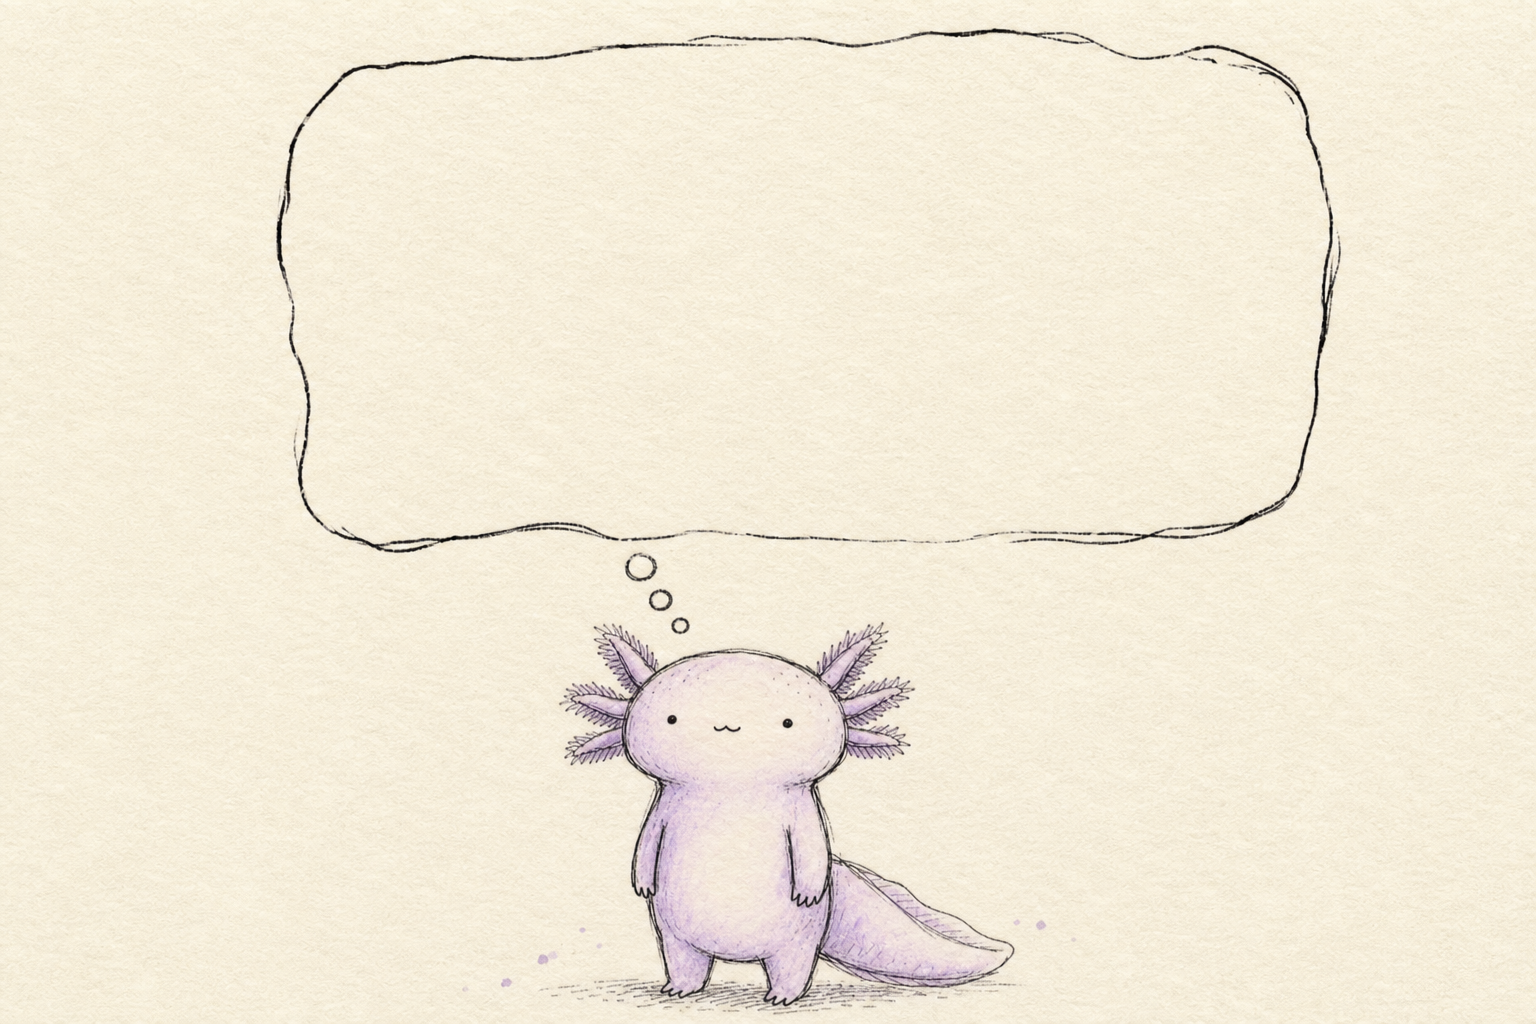
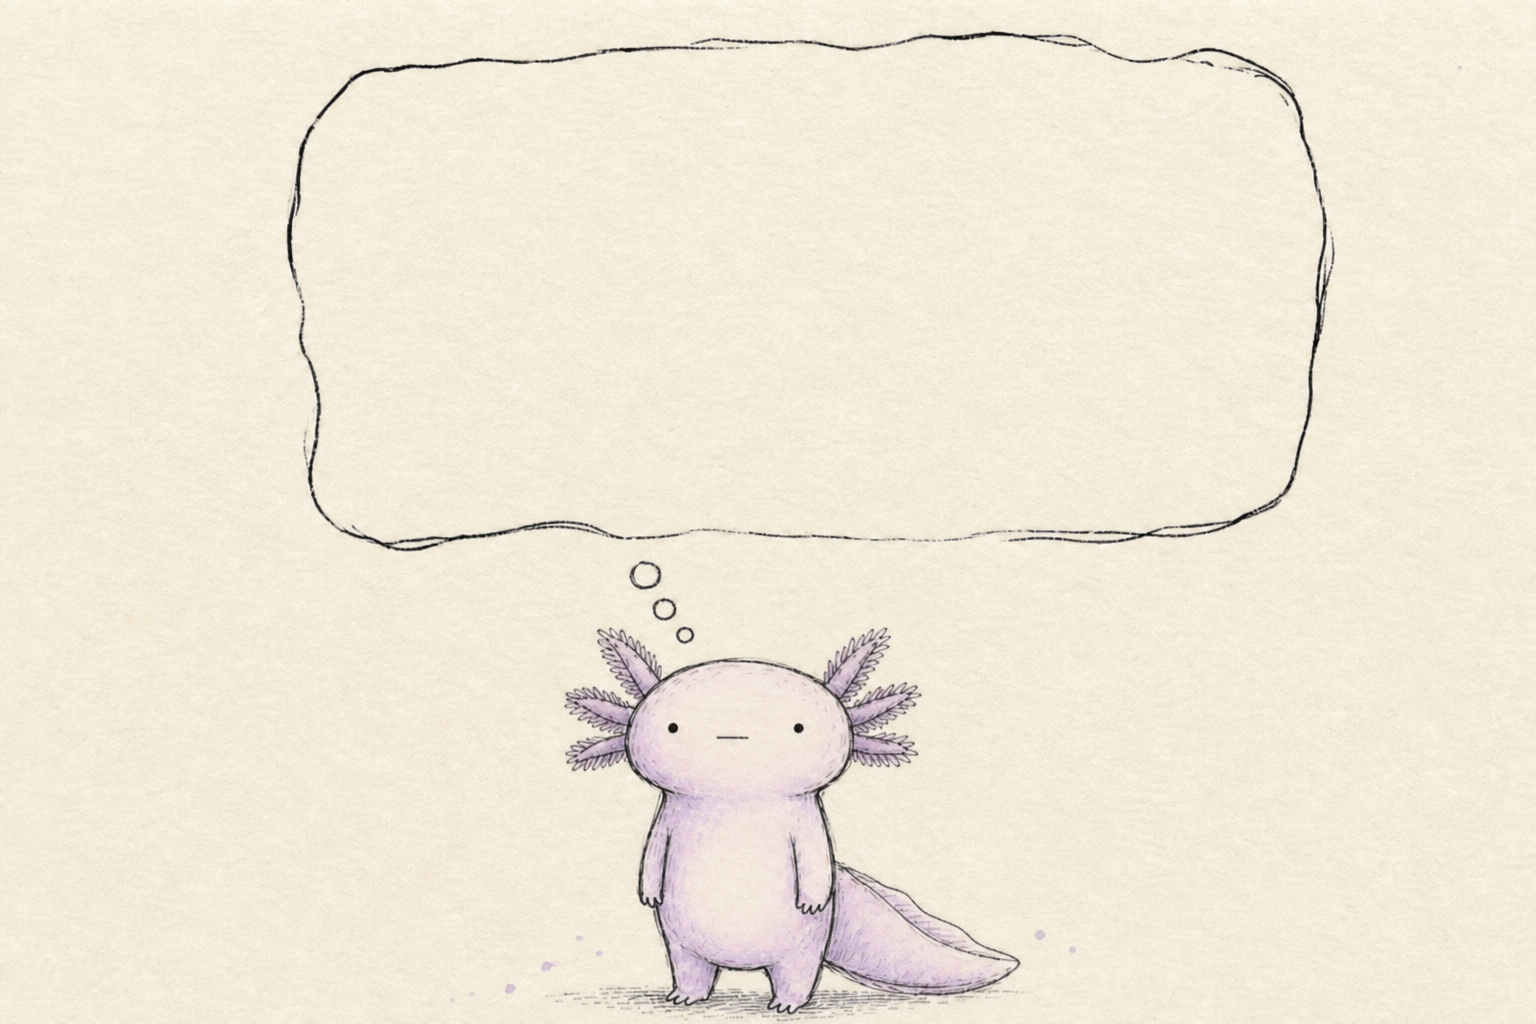
Lock Axo eyes and mouth to brand face reference
Tiny dots far apart + flat horizontal line mouth on all posts.
Update SVGs, layout docs, and regenerate canonical/day1/day2 PNGs.

diff --git a/docs/axo-face-locked-zh-TW.md b/docs/axo-face-locked-zh-TW.md
@@ -1,0 +1,49 @@
+# Axo 眼與嘴 — 鎖定規格（不可更改）
+
+**鎖定來源：** 品牌方提供之臉部參考圖（發呆／空白表情）  
+**狀態：** 永久鎖定 · 所有貼文、所有姿勢皆用同一張臉
+
+---
+
+## 鎖定外觀
+
+| 部位 | 規格 | 禁止 |
+|------|------|------|
+| **眼睛** | 兩顆**極小**實心黑點；**距離偏寬**（大臉兩側，呆視前方） | 大眼白、睫毛、瞇眼、斜眼 |
+| **嘴巴** | **一條短直橫線** `_`（水平、居中、無弧度） | `w` 嘴、張口、橢圓嘴、牙齒 |
+| **表情** | 死板、空白、發呆、無情緒 | 笑、哭、驚訝 o 嘴（除非品牌方書面解禁） |
+
+### SVG 數值（400×640 模板內 Axo 頭部）
+
+| 元素 | 值 |
+|------|-----|
+| 左眼 | `cx="170" cy="164" r="2.5"` |
+| 右眼 | `cx="230" cy="164" r="2.5"` |
+| 嘴 | `M 192 200 L 208 200` stroke 2px |
+
+> 換姿勢時**只移動身體**，眼嘴相對頭部位置與形狀不變。
+
+---
+
+## 與構圖模板關係
+
+- **版型：** 永遠「空白思考雲 + 下方小 Axo」（見 layout template）  
+- **臉：** 永遠本文件眼嘴 — **Post 1 介紹、Post 2 發呆、Day 2 麵碗…全部相同**
+
+---
+
+## AI / 設計師
+
+1. 以品牌方臉部參考圖為 **face reference**（勿改用 w 嘴版）  
+2. 新姿勢：reference 完整模板 + **只改身體手腳道具**  
+3. 完稿檢查：並排對照參考圖，眼距、點大小、橫線嘴須一致  
+
+**參考檔建議路徑：** `assets/axo/pen/reference/axo-face-locked.png`（請將品牌方原圖存於此）
+
+---
+
+## Midjourney 臉部片段（貼進主提示詞）
+
+```
+very tiny solid black dot eyes far apart on wide face, one short perfectly horizontal flat line mouth, blank deadpan empty expression, no smile
+```

diff --git a/docs/axo-style-v3-pen-zh-TW.md b/docs/axo-style-v3-pen-zh-TW.md
@@ -19,9 +19,8 @@
 | **畫紙** | 暖米色 `#F2EBD9`，可見紙紋、輕微纖維質感 |
 | **線條** | 墨色 `#2A2420`，**略歪、略抖**，線寬約 2.5–3px，有輕重 |
 | **上色** | 淡薰衣草**水彩暈染** `#E8D8E8`（opacity ~55%），不是實心向量填色 |
-| **眼睛** | 兩顆超小點眼；**只能比 canonical 更小，不能換畫風**（見色彩一致規則） |
-| **嘴巴** | 預設 **`w`**；發呆時 **`_` 平線** |
-| **官方主檔** | `png/axo-pen-canonical.png`（**空白思考雲 + 下方小 Axo + 小眼 w 嘴**） |
+| **眼與嘴** | **永久鎖定** → [`axo-face-locked-zh-TW.md`](./axo-face-locked-zh-TW.md) |
+| **官方主檔** | `png/axo-pen-canonical.png`（空白思考雲 + 下方小 Axo + **鎖定臉**） |
 | **修改方式** | 以主檔為 reference **只改指定部位**（如只縮眼、只加思考雲），禁止整張換風格 |
 | **腮紅** | 不要 |
 | **頭身** | 三頭身 |

diff --git a/README.md b/README.md
@@ -9,8 +9,8 @@
 
 ## Axo (mascot)
 
-**主視覺 v3：** [`assets/axo/pen/png/axo-pen-canonical.png`](assets/axo/pen/png/axo-pen-canonical.png)（**固定版型：空白思考雲 + 下方 Axo**）  
-**構圖規則：** [`docs/axo-layout-template-zh-TW.md`](docs/axo-layout-template-zh-TW.md)
+**主視覺 v3：** [`assets/axo/pen/png/axo-pen-canonical.png`](assets/axo/pen/png/axo-pen-canonical.png)  
+**構圖：** [`docs/axo-layout-template-zh-TW.md`](docs/axo-layout-template-zh-TW.md) · **眼嘴鎖定：** [`docs/axo-face-locked-zh-TW.md`](docs/axo-face-locked-zh-TW.md)
 
 v2 平面向量（封存）：[`assets/axo/`](assets/axo/)
 

diff --git a/docs/axo-layout-template-zh-TW.md b/docs/axo-layout-template-zh-TW.md
@@ -26,13 +26,14 @@
 
 ---
 
-## 臉部規格（預設）
+## 臉部規格（永久鎖定）
 
 | 部位 | 規格 |
 |------|------|
-| 眼睛 | 超小點眼 **r=2.8**（與 canonical 相同） |
-| 嘴巴 | 預設 **`w`** |
-| 例外 | **發呆帖**可用 **`_` 平線**（僅改嘴，不改布局） |
+| 眼睛 | 極小黑點、**眼距偏寬** — 見 [`axo-face-locked-zh-TW.md`](./axo-face-locked-zh-TW.md) |
+| 嘴巴 | **短直橫線 `_`**（所有貼文相同，含介紹、發呆、Day 2） |
+
+**禁止** 改用 `w` 嘴、張口、或其他嘴型（除非品牌方書面解禁）。
 
 ---
 

diff --git a/docs/axo-color-consistency-zh-TW.md b/docs/axo-color-consistency-zh-TW.md
@@ -11,7 +11,7 @@
 禁止因換姿勢、換 AI 出圖、或換設計師而漂移色號、畫風或**版型**。
 
 **主參考檔（視覺真源）：**  
-`assets/axo/pen/png/axo-pen-canonical.png`（**Day 1 布局 + 空白思考雲 + 小眼 + w 嘴**）
+`assets/axo/pen/png/axo-pen-canonical.png`（**布局 + 鎖定眼嘴**，見 `axo-face-locked-zh-TW.md`）
 
 **構圖規則（必守）：** [`axo-layout-template-zh-TW.md`](./axo-layout-template-zh-TW.md)
 
